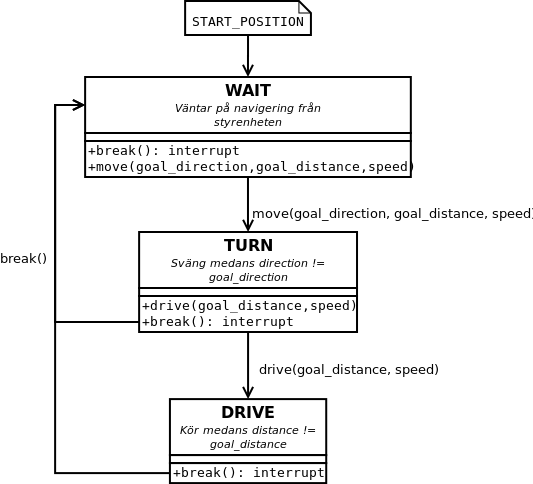
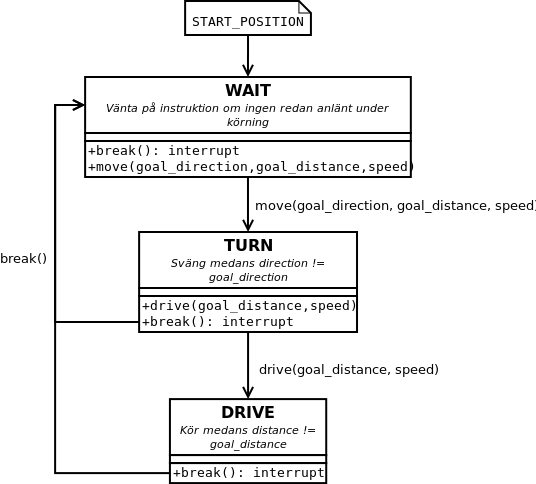
Suggestion about multithreading.

Changed region(s): [[0.1501, 0.0, 1.0, 1.0], [0.06, 0.2169, 0.1201, 0.9607]]

diff --git a/doc/designspec/designspec.tex b/doc/designspec/designspec.tex
@@ -218,9 +218,10 @@ På toppen av roboten ska en sensor (se \ref{sssec:lidar}) vara monterad på en 
 Totalt är det fyra motorer som är monterade på chassit som går under namnet \cite{terminator}. De fyra DC-motorerna styrs parvis (höger sida och vänster sida) med hjälp av en PWM-signal samt en rotationsriktningssignal per motorpar. Sammanlagt kommer alltså 4 pinnar på Atmega1284 processorn att användas för styrning av hjulen.
 
 \subsection{Mjukvara}
-
 Koden ska vara skriven i C, och ska följa standarden specificerad i bilaga \ref{sec:cstandard}. Eftersom nödstoppet ska kunna avbryta vad styrmodulen gör när som helst så är det lämpligt att använda avbrott för detta.
-Som vi ser i tillstånds schemat för styrenheten \ref{fig:stateDiagram} så har vi totalt 4 olika tillstånd.
+
+\subsubsection{Tillstånds diagram}
+Som vi ser i tillstånds schemat för styrenheten \ref{fig:stateDiagram} så har vi totalt 3 olika tillstånd. Medans styrenheten är i tillståndet WAIT så kommer roboten att stå stilla och invänta på en instruktion på hur den ska köra. Notera att en instruktion kan sättas i alla tillstånd, så om roboten redan har en instruktion inläst då tillståndet sätts till WAIT så kommer roboten börja på denna instruktion omedelbart. 
 
 \begin{figure}[h!]
 	\makebox[\textwidth][c]{\includegraphics[width=0.8\textwidth]{styrenhet_schema.png}}
@@ -228,10 +229,29 @@ Som vi ser i tillstånds schemat för styrenheten \ref{fig:stateDiagram} så har
 	\label{fig:stateDiagram}
 \end{figure}
 
+\subsubsection{Trådning}
+Eftersom att styrenheten ska kunna arbeta medans kommandon läses in och skrivs ut blir det svårt att undvika parallella trådar. Totalt ska det behövas 4 olika trådar med följande uppgifter:
+
+\newpage
+\begin{enumerate}
+	\item Läsa in data kontinuerligt från bussen och sätta navigerings instruktionen som ska läsas in till styrenheten.
+	\item Skicka ut konstant information om styrenheten, t.ex. motorernas status, nuvarande tillstånd, etc.
+	\item Styrenhetens logik
+	\item Skicka och avläsa data till motorer. Dvs att formulera de instruktioner som ska skickas till respektive protokoll. Anledningen till att det inte är en till tråd separat för AX-12 servon är för att den aldrig kommer köras samtidigt som DC-motorerna.
+\end{enumerate}
+
 \subsection{Gränssnitt} \label{ssec:controllInterface}
 
 \subsubsection{Styrsignaler samt styrdata}
 Implementera en UART-buss som endast går mellan styrenheten och kommunikationsenheten. Se \ref{ssec:brainInterface} för mer detaljer om för och nackdelar.
+
+\newpage
+Styrdatan ska innehålla information om följande punkter:
+\begin{itemize}
+	\item Hur många grader roboten ska svänga
+	\item Hur långt roboten ska köra i den riktningen
+	\item Vilken hastighet roboten ska köra med
+\end{itemize}
 
 \newpage
 \section{Kommunikations- och kontrollenhet} \label{sec:system3}
